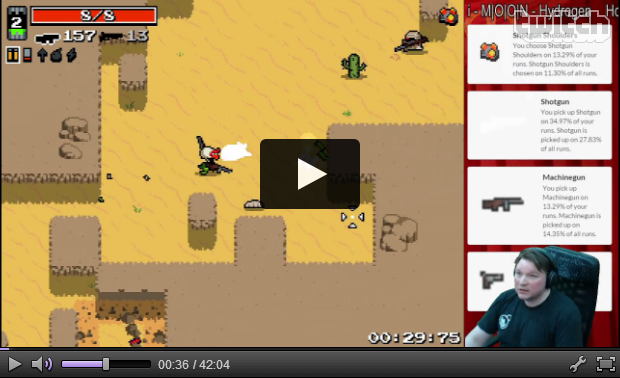
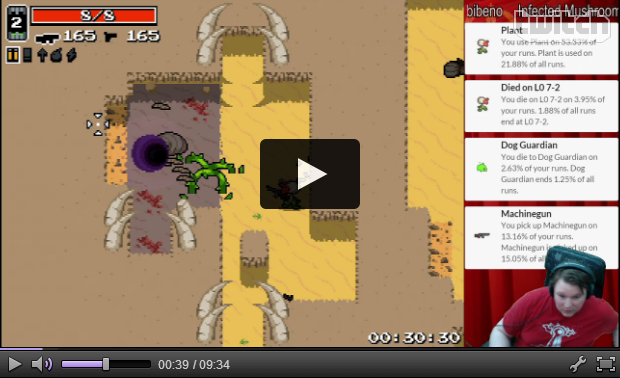
Updated demo video again

diff --git a/www/index.html b/www/index.html
@@ -94,7 +94,7 @@
                 <param name='allowNetworking' value='all'>
                 <param name='allowFullScreen' value='true'>
                 <param name='flashvars'
-                       value='title=Testing%2Bout%2Ba%2Bnew%2Bversion%2Bof%2BThroneStats%2Bwhile%2Balmost%2Bdouble-looping.&amp;channel=lietu&amp;autoplay=false&amp;start_volume=25&amp;videoId=v33778790'>
+                       value='title=More%2BThroneStats%2Btesting&amp;channel=lietu&amp;autoplay=false&amp;start_volume=25&amp;videoId=v34048909'>
             </object>
         </div>
 
